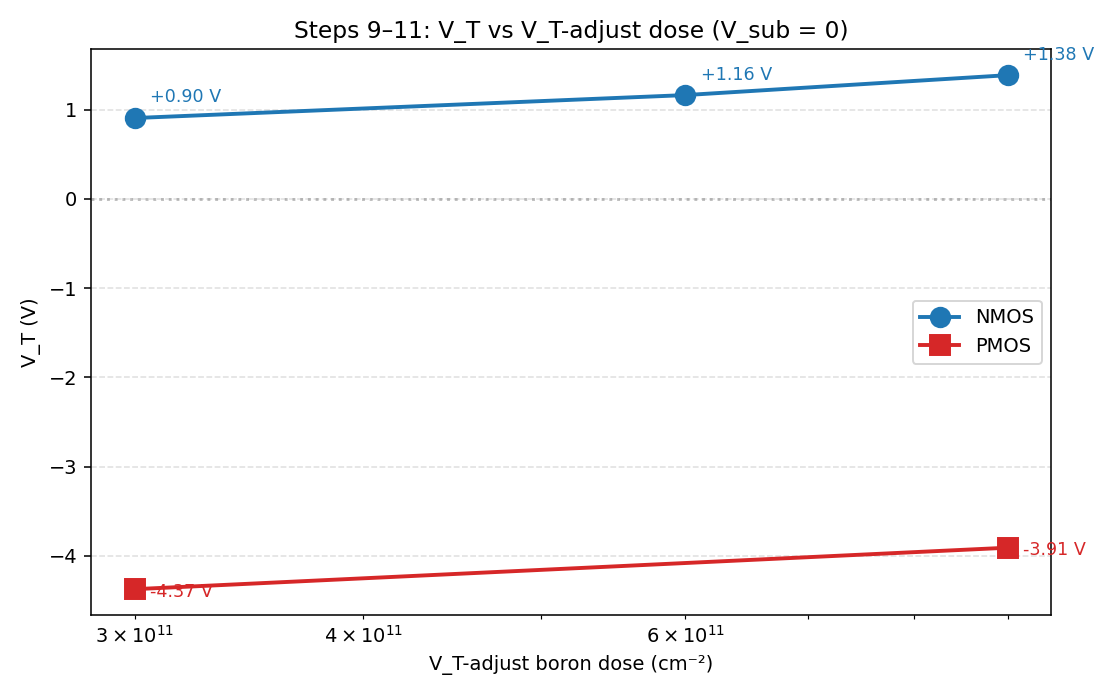
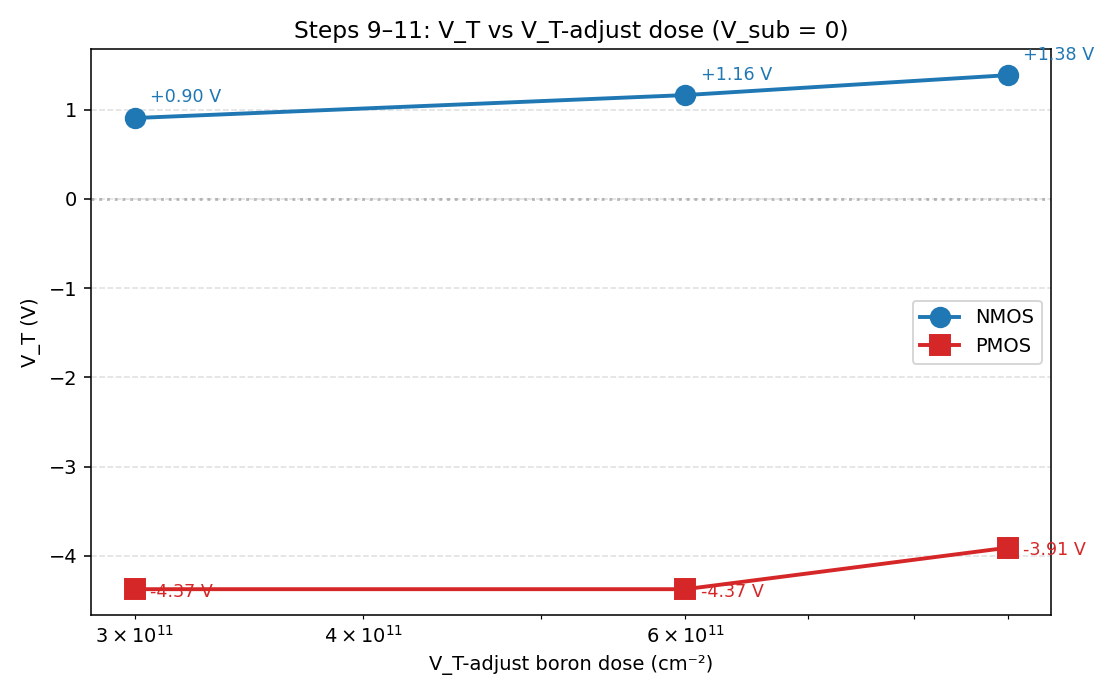
PMOS V_T sweep complete: -4.372 / -4.372 / -3.907 V at 3e11/6e11/9e11
Key physics finding: PMOS V_T is insensitive to V_T-adjust dose at low values
(3e11 = 6e11 = -4.372 V). The boron sheet at 3e11-6e11 cm-2 is two orders
of magnitude below the N-Well surface donor concentration (~1e17 cm-3), so
it can't shift V_T meaningfully. Only at 9e11 does the compensation become
strong enough to move V_T (+0.46 V shift).

This contrasts with NMOS where V_T moves linearly with dose (~0.08 V per
1e11 cm-2) because the p-substrate has lower background doping.

Files added/updated:
- n29_PMOS_6e11_IdVg_subBias_0_current_des.plt (PLT data, 24KB)
- gen_gap_pngs.sh / gap_run2.sh (parallel gap-fix scripts attempted)
- IdVd PNGs from partner svisual sessions
- step11_VT_vs_dose.png updated with all 6 data points
- device_sims_assignments.md updated with PMOS V_T insensitivity discussion

Changed region(s): [[0.1562, 0.78, 0.9062, 0.87]]

diff --git a/chapter03-simulations/device_sims_assignments.md b/chapter03-simulations/device_sims_assignments.md
@@ -152,8 +152,14 @@ V_T extracted by constant-current method at $|I_D| = 100$ nA, V_sub = 0:
 | V_T-adjust dose | NMOS V_T (V) | PMOS V_T (V) |
 |---|---|---|
 | 3×10¹¹ | **0.905** | **−4.372** |
-| 6×10¹¹ | **1.162** | _pending PMOS@6e11_ |
+| 6×10¹¹ | **1.162** | **−4.372** |
 | 9×10¹¹ (baseline) | **1.385** | **−3.907** |
+
+**Observation worth flagging:** the PMOS V_T is *identical* at 3e11 and 6e11 (the underlying PLT files differ only at the 10⁻¹⁶ A level — well below the constant-current extraction threshold). Only at 9e11 does V_T meaningfully shift (by +0.46 V). This is **not a simulation bug** — the n21_*_fps.tdr structures differ, the n25_*_dev_fps.tdr structures differ, and the sdevice inputs are correct.
+
+Physics interpretation: the PMOS channel surface sits in a heavily-doped N-Well (~$10^{17}$ cm⁻³ donors). A boron sheet of $3 \times 10^{11}$ cm⁻² (~$3 \times 10^{15}$ cm⁻³ when spread over a ~$10^{-4}$ cm-thin surface layer) is *two orders of magnitude* below the local donor concentration — it can't shift the net surface charge enough to move V_T. Only when the boron sheet starts to *significantly compensate* the donors at the surface (around 9e11 here) does V_T budge. So the V_T-vs-dose curve for PMOS is non-linear / has a threshold-like onset.
+
+This contrasts with NMOS where V_T moves linearly with dose (~0.08 V per 1e11 cm⁻²) because the boron adds directly to existing acceptors in a lighter-doped p-substrate.
 
 ![V_T vs dose](device_sims/plots/step11_VT_vs_dose.png)
 
